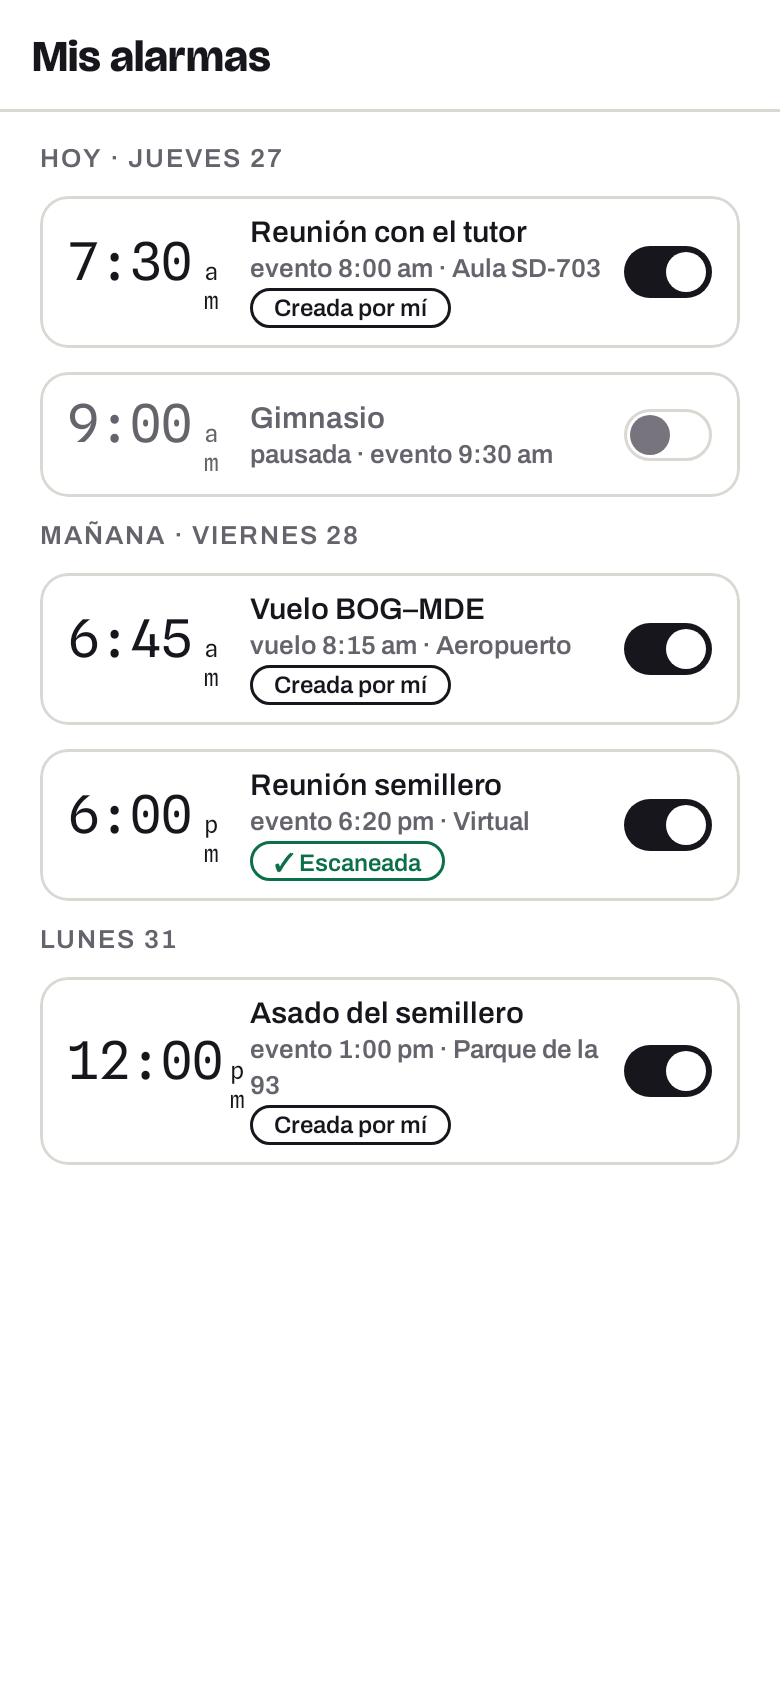
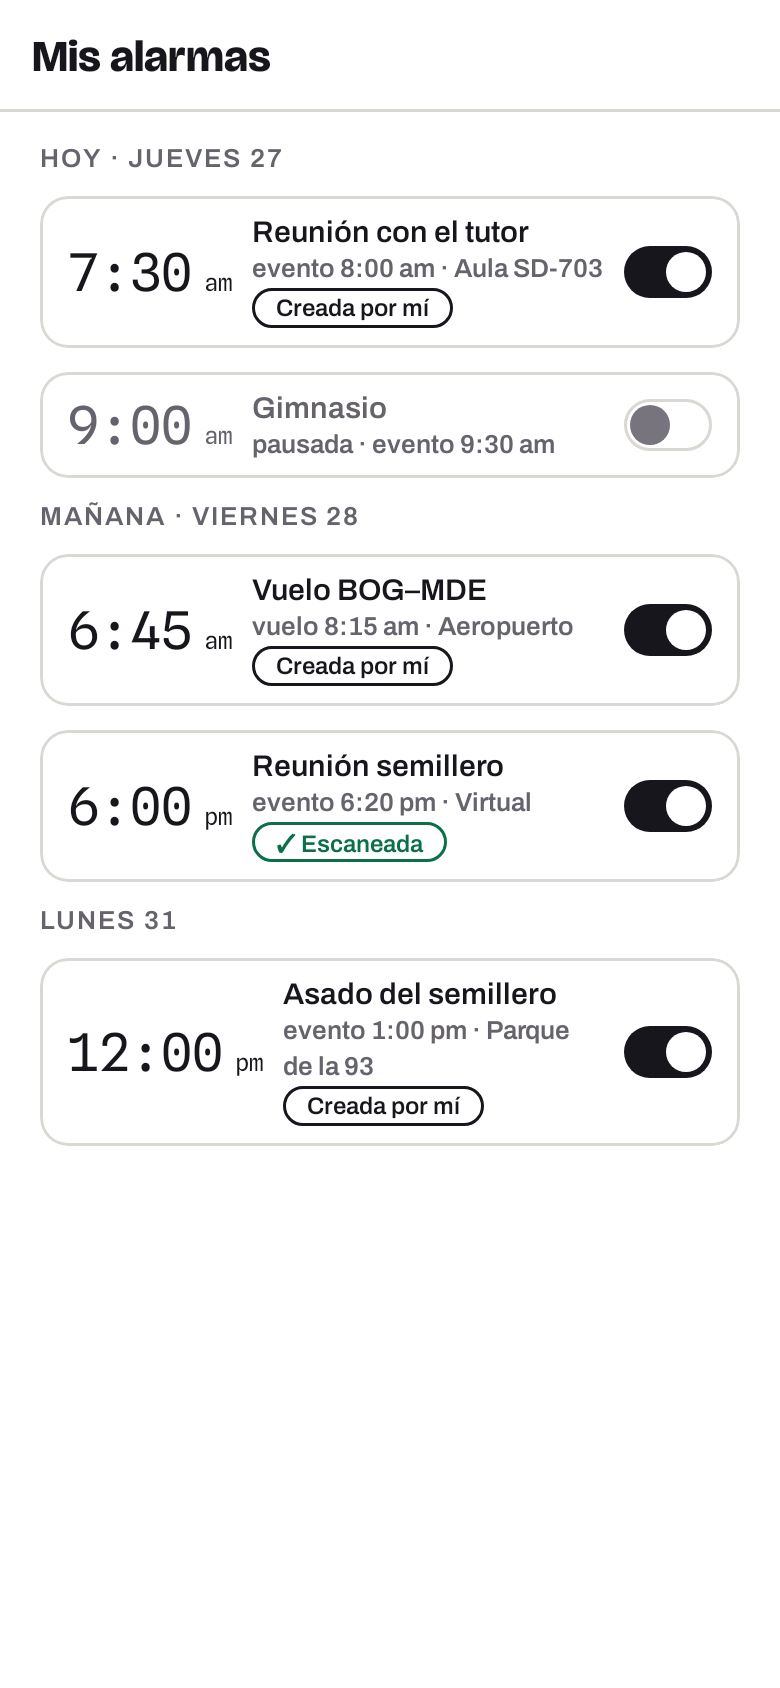
M02: fija el ancho de la hora de TarjetaAlarma y separa las keys de la lista
El sufijo am/pm se partía en dos líneas en toda TarjetaAlarma: 4 dígitos
tabulares a 26 sp + gap + am/pm a 12 sp suman ≈82 dp contra los 81 dp fijos
de la columna. Se cambia a widthIn(min = HoraTarjetaAncho) con maxLines = 1
y softWrap = false en ambos textos, así conserva el ancho mínimo del mockup
y crece para horas de 5 dígitos («12:00 pm»). Se corrige aquí porque
TarjetaAlarma es compartida con M04/M05. De paso, las keys del LazyColumn
de M02 llevan prefijo «grupo-»/«alarma-» para que no puedan colisionar.

diff --git a/apps/movil/app/src/main/java/co/edu/uniandes/alarmasqr/ui/componentes/TarjetaAlarma.kt b/apps/movil/app/src/main/java/co/edu/uniandes/alarmasqr/ui/componentes/TarjetaAlarma.kt
@@ -8,7 +8,7 @@ import androidx.compose.foundation.layout.Column
 import androidx.compose.foundation.layout.Row
 import androidx.compose.foundation.layout.fillMaxWidth
 import androidx.compose.foundation.layout.padding
-import androidx.compose.foundation.layout.width
+import androidx.compose.foundation.layout.widthIn
 import androidx.compose.material3.Text
 import androidx.compose.runtime.Composable
 import androidx.compose.ui.Alignment
@@ -34,8 +34,9 @@ fun AgrupadorDia(texto: String, modifier: Modifier = Modifier) {
 /**
  * DS comp. 18 «Tarjeta de alarma» (anatomía única v1.3): 350×75 (53 sin chip), borde 1.5 Gris Borde (2 Verde Texto
  * si es «recién guardada»), radio 14, relleno 14/10; hora Spline Sans Mono Bold 26 + am/pm Medium 12 en la misma
- * línea, título Archivo Bold 15, «evento h:mm · lugar» 13 Gris Texto, chips debajo y el interruptor a la derecha.
- * Pausada: sin fondo (tutores v1.6), todo en Gris Texto e interruptor apagado.
+ * línea (columna de ancho mínimo `HoraTarjetaAncho`, sin ajuste de línea, para que crezca con horas de 5 dígitos
+ * como «12:00 pm» sin partir el sufijo), título Archivo Bold 15, «evento h:mm · lugar» 13 Gris Texto, chips debajo
+ * y el interruptor a la derecha. Pausada: sin fondo (tutores v1.6), todo en Gris Texto e interruptor apagado.
  */
 @Composable
 fun TarjetaAlarma(alarma: Alarma, onClick: () -> Unit, alCambiarActiva: (Boolean) -> Unit, modifier: Modifier = Modifier) {
@@ -49,9 +50,9 @@ fun TarjetaAlarma(alarma: Alarma, onClick: () -> Unit, alCambiarActiva: (Boolean
         horizontalArrangement = Arrangement.spacedBy(Espacio.GapFila),
         verticalAlignment = Alignment.CenterVertically,
     ) {
-        Row(Modifier.width(Medidas.HoraTarjetaAncho), horizontalArrangement = Arrangement.spacedBy(Espacio.GapHoraSufijo)) {
-            Text(FormatoHora.hora(alarma.suena), style = Tipografia.HoraTarjeta, color = principal, modifier = Modifier.alignByBaseline())
-            Text(FormatoHora.sufijo(alarma.suena), style = Tipografia.HoraAmPm, color = principal, modifier = Modifier.alignByBaseline())
+        Row(Modifier.widthIn(min = Medidas.HoraTarjetaAncho), horizontalArrangement = Arrangement.spacedBy(Espacio.GapHoraSufijo)) {
+            Text(FormatoHora.hora(alarma.suena), style = Tipografia.HoraTarjeta, color = principal, maxLines = 1, softWrap = false, modifier = Modifier.alignByBaseline())
+            Text(FormatoHora.sufijo(alarma.suena), style = Tipografia.HoraAmPm, color = principal, maxLines = 1, softWrap = false, modifier = Modifier.alignByBaseline())
         }
         Column(Modifier.weight(1f), verticalArrangement = Arrangement.spacedBy(Espacio.GapTextoTarjeta)) {
             Text(alarma.titulo, style = Tipografia.TituloTarjeta, color = principal)

diff --git a/apps/movil/app/src/main/java/co/edu/uniandes/alarmasqr/ui/pantallas/m02/M02InicioScreen.kt b/apps/movil/app/src/main/java/co/edu/uniandes/alarmasqr/ui/pantallas/m02/M02InicioScreen.kt
@@ -43,8 +43,8 @@ fun M02InicioScreen(estado: EstadoInicio, alTocarAlarma: (String) -> Unit, alCam
             verticalArrangement = Arrangement.spacedBy(Espacio.EntreBloques),
         ) {
             estado.grupos.forEach { grupo ->
-                item(key = grupo.etiqueta) { AgrupadorDia(grupo.etiqueta) }
-                items(grupo.alarmas, key = { it.id }) { alarma ->
+                item(key = "grupo-${grupo.etiqueta}") { AgrupadorDia(grupo.etiqueta) }
+                items(grupo.alarmas, key = { "alarma-${it.id}" }) { alarma ->
                     TarjetaAlarma(alarma, onClick = { alTocarAlarma(alarma.id) }, alCambiarActiva = { alCambiarActiva(alarma.id, it) })
                 }
             }

diff --git a/docs/verificacion/README.md b/docs/verificacion/README.md
@@ -12,7 +12,7 @@ marco) con los ids de `docs/MOCKUPS.md` §5.
 | M00a | 3:2 | ok · diferencias: subtítulo parte en 2 líneas en vez de 1 (métrica de fuente de Robolectric, igual que M01) |
 | M00b | 3:37 | ok · diferencias: campo Correo enfocado con cursor y valor tecleado en Figma; la implementación lo precarga sin foco (aceptado, ver brief) |
 | M02v | 4020:3553 | ok · pixel-perfect (diana, título, párrafo a 3 líneas y los tres botones alinean con el marco) |
-| M02 | 3:131 | ok · diferencias aceptadas: 5ª alarma «Asado del semillero» / LUNES 31 (decisión D3, el marco solo muestra 4); sufijo am/pm de la hora se parte en 2 líneas en la columna de 81 dp (métrica de fuente de Robolectric, ver nota abajo); «evento 6:20 pm» en la tarjeta «Reunión semillero» es el valor de `dataset.json` (fuente única de datos), 10 min distinto del marco |
+| M02 | 3:131 | ok · diferencias aceptadas: 5ª alarma «Asado del semillero» / LUNES 31 (decisión D3, el marco solo muestra 4); «evento 6:20 pm» en la tarjeta «Reunión semillero» es el valor de `dataset.json` (fuente única de datos), 10 min distinto del marco. El sufijo am/pm ya no se parte de línea (ver nota abajo) |
 | M02h | 4019:3139 | pendiente (Tarea 14) |
 | M12 | 6:87 | pendiente |
 | M13 | 6:122 | pendiente |
@@ -32,10 +32,14 @@ la salida real de `regla.capturar("M01")` dentro de `M01BienvenidaScreenTest`, l
 de calendario, así que las tres quedan sin marcar como en el marco de Figma. Diferencia aceptada frente a Figma: el
 párrafo se parte en 3 líneas en vez de 2 (métrica de fuente de Robolectric).
 
-**Nota M02 (Tarea 7):** en `M02.png` el sufijo am/pm de `TarjetaAlarma` (columna fija `Medidas.HoraTarjetaAncho` =
-81 dp, componente de una tarea anterior, fuera del alcance de esta tarea) se parte en dos líneas («a» / «m») en vez
-de quedar en una sola línea junto a la hora, como en el marco de Figma. Es el mismo tipo de diferencia de métrica de
-fuente bajo Robolectric que ya se documentó para M01 y M00a (Spline Sans Mono con dígitos tabulares mide un poco más
-ancho bajo Robolectric que en Figma/dispositivo real); no se tocó `TarjetaAlarma.kt` porque no es un archivo de esta
-tarea. Queda anotado para que una tarea futura decida si amplía `HoraTarjetaAncho` o si lo acepta también en un
-dispositivo real.
+**Nota M02 (Tarea 7, corregida en la ronda 1 de revisión):** en la primera versión de `M02.png` el sufijo am/pm de
+`TarjetaAlarma` se partía en dos líneas («a» / «m») en vez de quedar en una sola línea junto a la hora. No era una
+diferencia de métrica de fuente de Robolectric (como se pensó al principio): era un defecto real de tamaño. La
+columna de la hora tenía un ancho fijo (`Modifier.width(Medidas.HoraTarjetaAncho)` = 81 dp) que no alcanza: 4 dígitos
+tabulares a 26 sp (Spline Sans Mono Bold) miden ≈ 62 dp, más el gap de 6 dp, más «am»/«pm» a 12 sp (≈ 14 dp) suman
+≈ 82 dp > 81 dp, así que el sufijo se partía letra por letra en toda tarjeta. Se corrigió en `TarjetaAlarma.kt`
+(componente compartido con M04/M05, por eso se arregló en esta misma tarea): la columna ahora usa
+`Modifier.widthIn(min = Medidas.HoraTarjetaAncho)` — conserva el ancho de 81 dp como mínimo (alinea igual que antes
+en el caso común) pero puede crecer para horas de 5 dígitos como «12:00 pm» — y ambos `Text` (hora y sufijo) llevan
+`maxLines = 1, softWrap = false`. `M02.png` es la salida real tras el arreglo: las cinco tarjetas, incluida
+«12:00 pm», muestran el sufijo en una sola línea.
